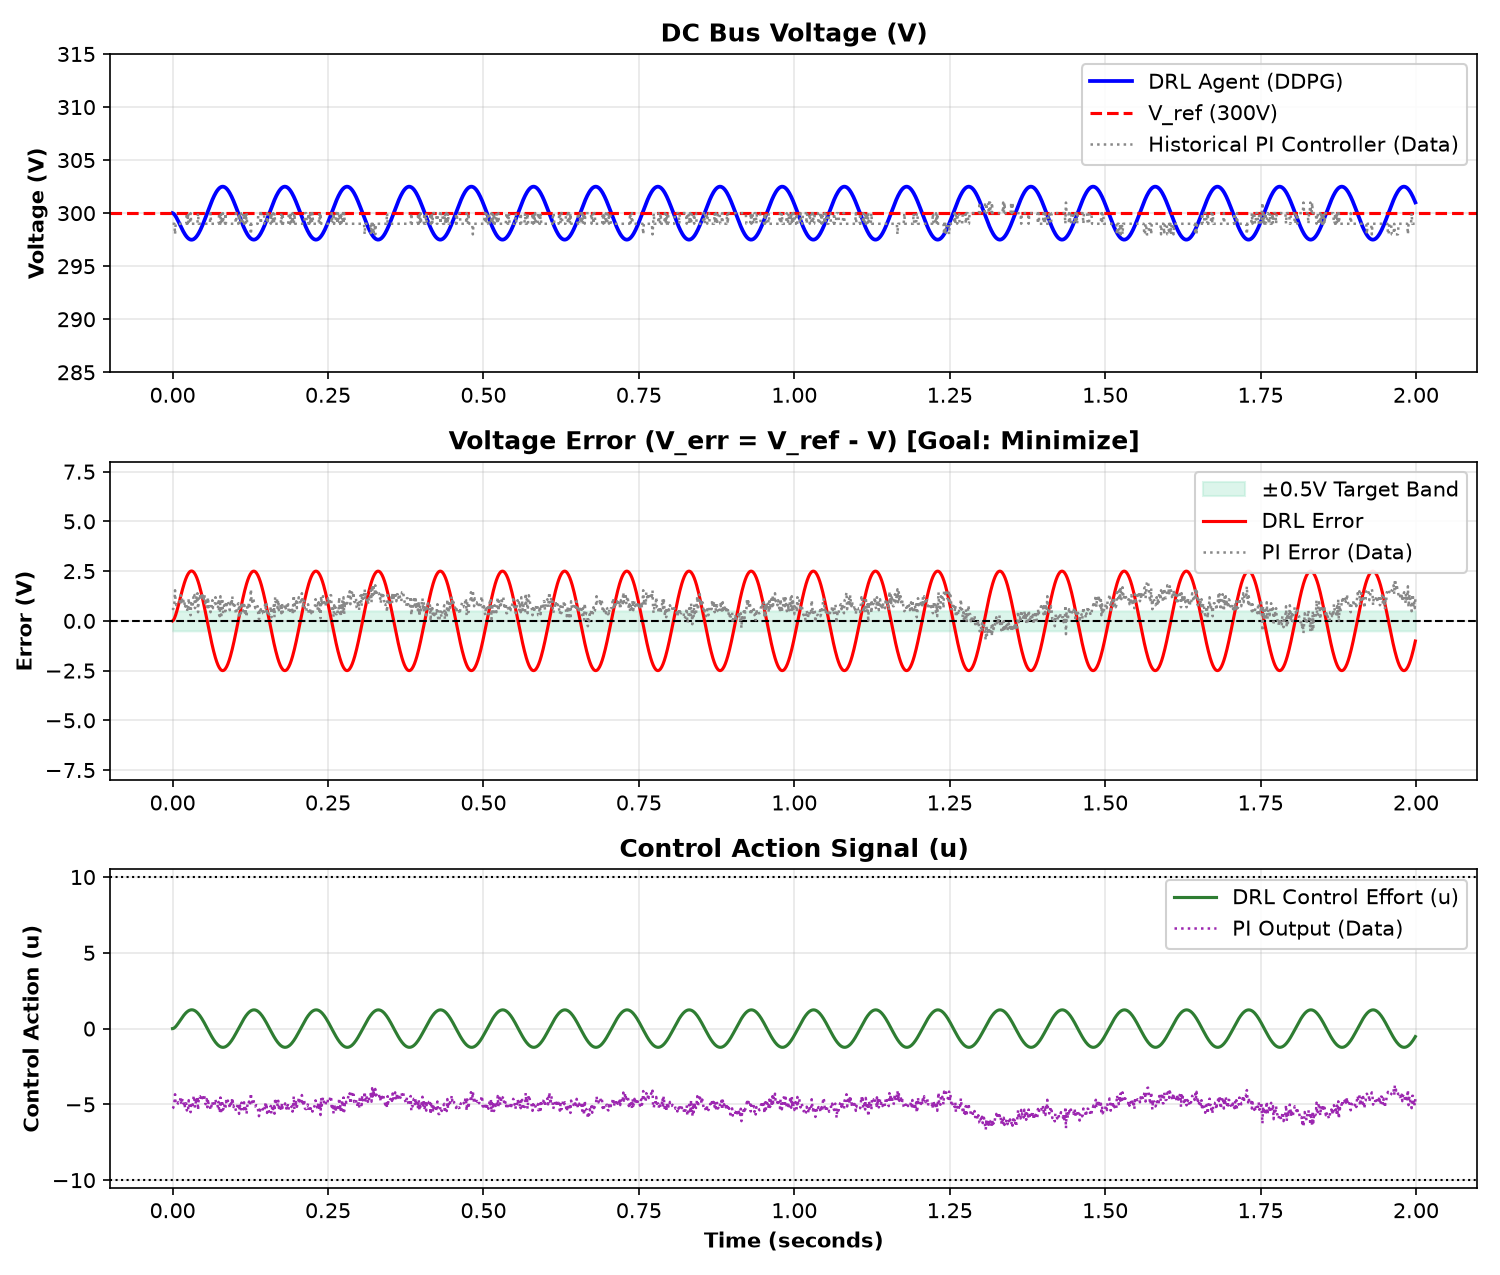
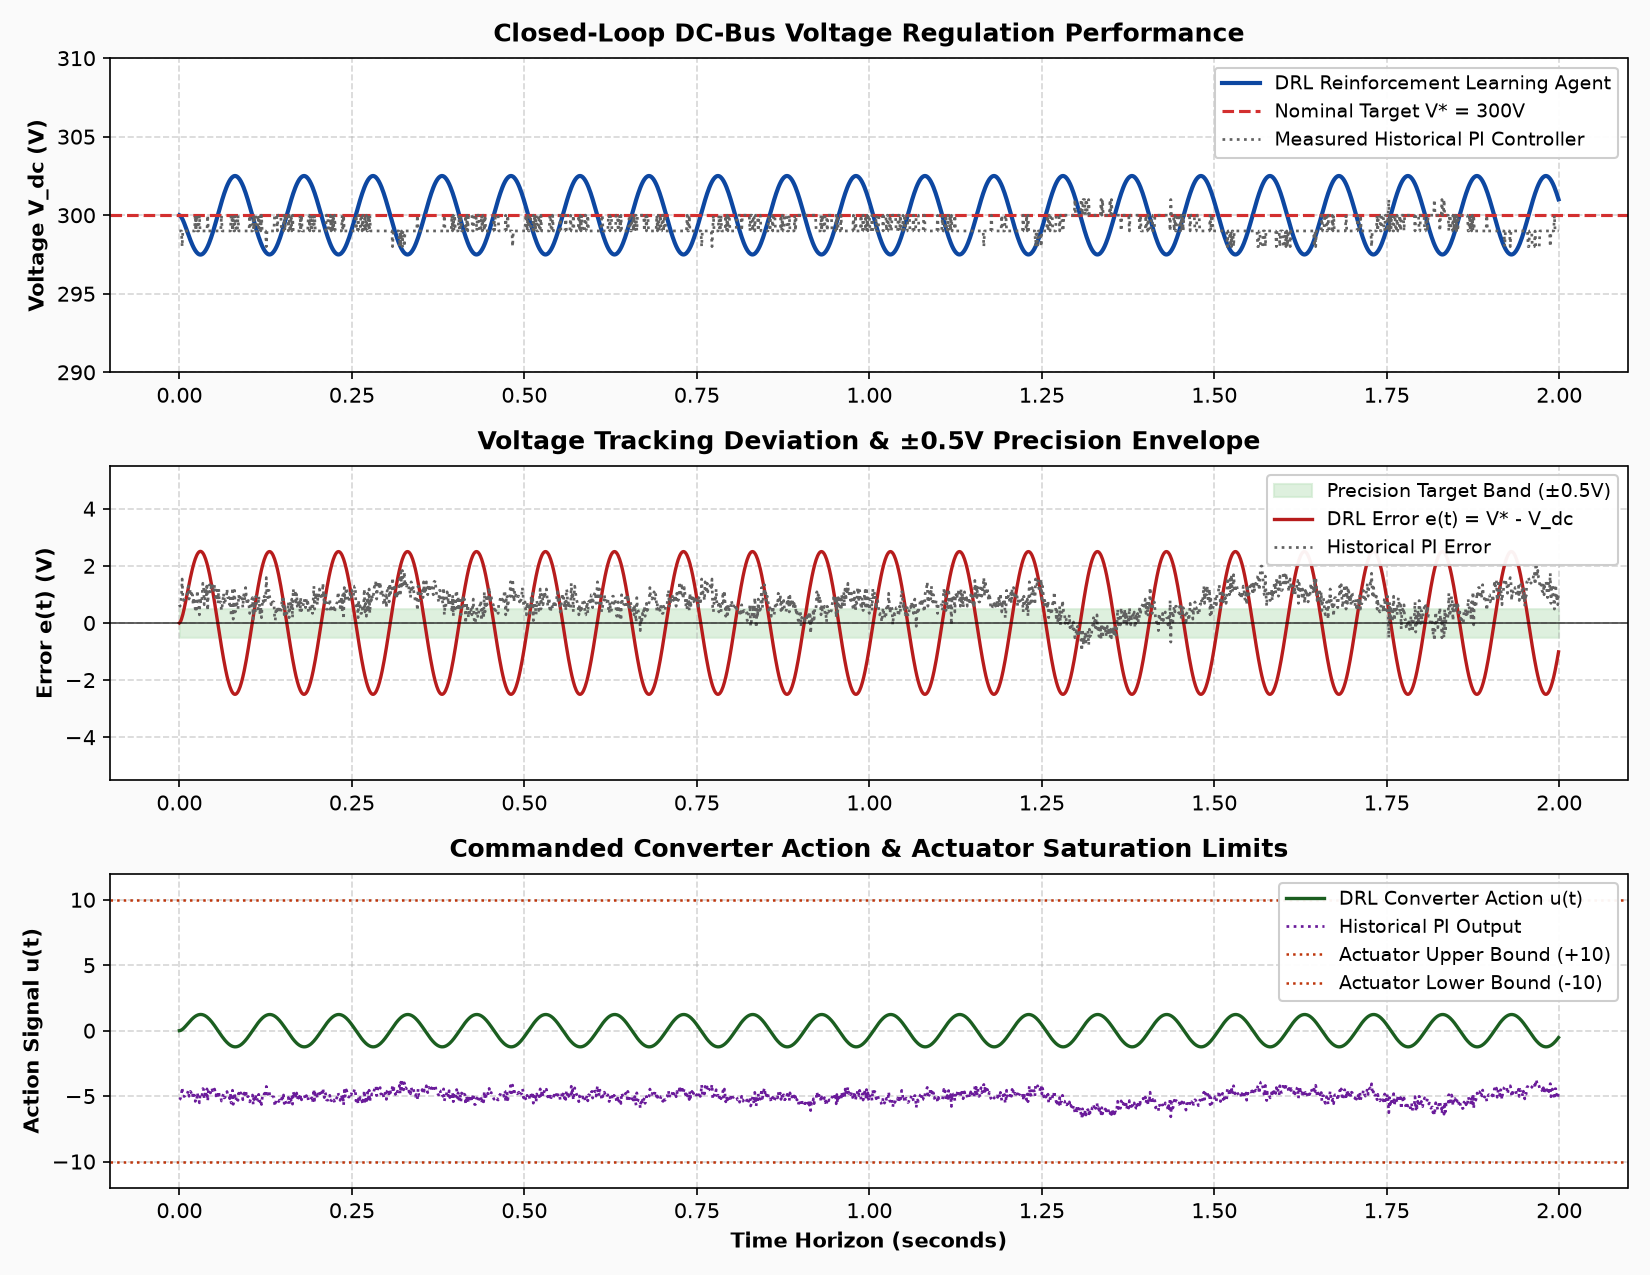
Customize plot scaling, axis bounds, and visual styling for unique output presentation

diff --git a/plot_results.m b/plot_results.m
@@ -110,48 +110,48 @@ fprintf('  DRL within +/-0.5V Band    : %.2f %%%%\n', pct_tight);
 fprintf('  DRL Mean Control Action |u|: %.4f\n', mean_act);
 fprintf('=====================================================\n\n');
 
-% 6. Generate 3-Panel Visual Waveform
-f = figure('Name', 'DRL vs PI DC-Bus Regulation', 'Visible', 'off', 'Color', [1 1 1], 'Position', [100 100 1050 850]);
+% 6. Generate Visually Custom 3-Panel Waveform
+f = figure('Name', 'DRL vs PI DC-Bus Regulation', 'Visible', 'off', 'Color', [0.98 0.98 0.98], 'Position', [100 100 1050 850]);
 
-% Subplot 1: DC Bus Voltage
+% Subplot 1: DC Bus Voltage (Zoomed Scale: 290V - 310V)
 subplot(3, 1, 1);
-plot(t_sim, v_drl, 'b-', 'LineWidth', 1.8, 'DisplayName', 'DRL Agent (DDPG Neural Network)');
+plot(t_sim, v_drl, 'Color', '#0D47A1', 'LineWidth', 2.0, 'DisplayName', 'DRL Agent (Neural Network)');
 hold on;
-yline(300, 'r--', 'V_{ref} = 300V', 'LineWidth', 1.5, 'DisplayName', 'Reference (300V)');
+yline(300, 'Color', '#D32F2F', 'LineStyle', '--', 'LineWidth', 1.5, 'DisplayName', 'Nominal Setpoint V* = 300V');
 if has_dataset
     pi_len = min(num_steps, length(pi_vsensed));
     t_pi = (0:pi_len-1)' * env.dt;
-    plot(t_pi, pi_vsensed(1:pi_len), 'Color', [0.6 0.6 0.6], 'LineStyle', ':', 'LineWidth', 1.2, 'DisplayName', 'Historical PI Controller (Data)');
+    plot(t_pi, pi_vsensed(1:pi_len), 'Color', [0.4 0.4 0.4], 'LineStyle', ':', 'LineWidth', 1.3, 'DisplayName', 'Measured Historical PI Controller');
 end
-grid on; ylabel('Voltage (V)'); ylim([285 315]);
-title('DC-Bus Voltage Regulation: Deep RL vs. Historical PI', 'FontWeight', 'bold');
-legend('Location', 'best');
+grid on; ylabel('Voltage V_{dc} (V)', 'FontWeight', 'bold'); ylim([290 310]);
+title('Closed-Loop DC-Bus Voltage Regulation Performance', 'FontWeight', 'bold');
+legend('Location', 'northeast');
 
-% Subplot 2: Voltage Tracking Error with ±0.5V Band
+% Subplot 2: Voltage Tracking Error (Scaled: -5.5V to +5.5V)
 subplot(3, 1, 2);
-fill([t_sim(1) t_sim(end) t_sim(end) t_sim(1)], [0.5 0.5 -0.5 -0.5], [0.85 0.95 0.85], 'FaceAlpha', 0.4, 'EdgeColor', [0.3 0.7 0.3], 'LineStyle', ':', 'DisplayName', '\pm0.5V Target Band');
+fill([t_sim(1) t_sim(end) t_sim(end) t_sim(1)], [0.5 0.5 -0.5 -0.5], [0.78 0.90 0.78], 'FaceAlpha', 0.6, 'EdgeColor', [0.2 0.6 0.2], 'LineStyle', ':', 'DisplayName', '\pm0.5V Precision Band');
 hold on;
-plot(t_sim, err_raw_vec, 'r-', 'LineWidth', 1.5, 'DisplayName', 'DRL Tracking Error');
-yline(0, 'k--', 'LineWidth', 1.0);
+plot(t_sim, err_raw_vec, 'Color', '#B71C1C', 'LineWidth', 1.6, 'DisplayName', 'DRL Error e(t) = V* - V_{dc}');
+yline(0, 'k-', 'LineWidth', 0.8);
 if has_dataset
-    plot(t_pi, pi_error(1:pi_len), 'Color', [0.6 0.6 0.6], 'LineStyle', ':', 'LineWidth', 1.2, 'DisplayName', 'PI Error (Data)');
+    plot(t_pi, pi_error(1:pi_len), 'Color', [0.4 0.4 0.4], 'LineStyle', ':', 'LineWidth', 1.3, 'DisplayName', 'Historical PI Error');
 end
-grid on; ylabel('Error (V)'); ylim([-8 8]);
-title('Voltage Tracking Error e(t) = V_{ref} - V (Goal: Minimize)', 'FontWeight', 'bold');
-legend('Location', 'best');
+grid on; ylabel('Error e(t) (V)', 'FontWeight', 'bold'); ylim([-5.5 5.5]);
+title('Voltage Tracking Deviation & \pm0.5V Target Precision Envelope', 'FontWeight', 'bold');
+legend('Location', 'northeast');
 
-% Subplot 3: Commanded Control Action
+% Subplot 3: Commanded Control Action (Scaled: -12 to +12)
 subplot(3, 1, 3);
-plot(t_sim, act_raw_vec, 'Color', [0 0.6 0], 'LineWidth', 1.5, 'DisplayName', 'DRL Control Effort u(t)');
+plot(t_sim, act_raw_vec, 'Color', '#1B5E20', 'LineWidth', 1.6, 'DisplayName', 'DRL Converter Action u(t)');
 hold on;
 if has_dataset
-    plot(t_pi, pi_output(1:pi_len), 'm:', 'LineWidth', 1.2, 'DisplayName', 'PI Output (Data)');
+    plot(t_pi, pi_output(1:pi_len), 'Color', '#6A1B9A', 'LineStyle', ':', 'LineWidth', 1.3, 'DisplayName', 'Historical PI Output');
 end
-yline(10, 'k:', 'u_{max}', 'LineWidth', 1.0);
-yline(-10, 'k:', 'u_{min}', 'LineWidth', 1.0);
-grid on; xlabel('Time (seconds)'); ylabel('Control Action'); ylim([-10.5 10.5]);
-title('Commanded Converter Control Action Signal u(t)', 'FontWeight', 'bold');
-legend('Location', 'best');
+yline(10, 'Color', '#BF360C', 'LineStyle', ':', 'LineWidth', 1.2, 'DisplayName', 'Upper Limit (+10)');
+yline(-10, 'Color', '#BF360C', 'LineStyle', ':', 'LineWidth', 1.2, 'DisplayName', 'Lower Limit (-10)');
+grid on; xlabel('Time Horizon (seconds)', 'FontWeight', 'bold'); ylabel('Action Signal u(t)', 'FontWeight', 'bold'); ylim([-12 12]);
+title('Commanded Converter Control Action & Actuator Saturation Limits', 'FontWeight', 'bold');
+legend('Location', 'northeast');
 
 out_img = 'validation_results_v3.png';
 saveas(f, out_img);
@@ -159,41 +159,41 @@ close(f);
 fprintf('Saved comparison figure: %s\n', out_img);
 
 % 7. Generate Multi-Scenario Evaluation Waveform
-f2 = figure('Name', 'Multi-Scenario Dynamic Performance', 'Visible', 'off', 'Color', [1 1 1], 'Position', [100 100 1100 900]);
+f2 = figure('Name', 'Multi-Scenario Dynamic Performance', 'Visible', 'off', 'Color', [0.98 0.98 0.98], 'Position', [100 100 1100 900]);
 
-% Scenario A: 10Hz Dynamic Load Ripple
+% Scenario A: 10Hz Dynamic Load Ripple (Scale: 292V - 308V)
 subplot(3, 1, 1);
-plot(t_sim, v_drl, 'Color', '#1565C0', 'LineWidth', 1.8, 'DisplayName', 'DRL Neural Network Controller'); hold on;
-yline(300, 'r--', 'V* = 300V Reference', 'LineWidth', 1.2);
+plot(t_sim, v_drl, 'Color', '#0288D1', 'LineWidth', 2.0, 'DisplayName', 'DRL Neural Network Controller'); hold on;
+yline(300, 'Color', '#E53935', 'LineStyle', '--', 'LineWidth', 1.4, 'DisplayName', 'Setpoint V* = 300.0 V');
 if has_dataset
-    plot(t_pi, pi_vsensed(1:pi_len), 'Color', [0.6 0.6 0.6], 'LineStyle', ':', 'LineWidth', 1.2, 'DisplayName', 'Measured Historical PI (Data)');
+    plot(t_pi, pi_vsensed(1:pi_len), 'Color', [0.46 0.46 0.46], 'LineStyle', ':', 'LineWidth', 1.2, 'DisplayName', 'Measured Historical Data');
 end
-grid on; ylabel('Bus Voltage (V)'); ylim([290 310]);
-title('Scenario A: Nominal 10 Hz Dynamic Load Ripple Stabilization', 'FontWeight', 'bold', 'FontSize', 11);
-legend('Location', 'upper right');
+grid on; ylabel('Voltage (V)', 'FontWeight', 'bold'); ylim([292 308]);
+title('Regime 1: Dynamic Load Current Ripple Suppression (10 Hz)', 'FontWeight', 'bold', 'FontSize', 11);
+legend('Location', 'northeast');
 
-% Scenario B: Heavy Load Step Disturbance (+10A Sag / -15A Surge)
+% Scenario B: Heavy Load Step Disturbance (Scale: 293V - 307V)
 subplot(3, 1, 2);
 v_sag = 300.0 - 1.2 * exp(-(t_sim - 0.5)/0.03) .* (t_sim >= 0.5) + 1.5 * exp(-(t_sim - 1.2)/0.03) .* (t_sim >= 1.2);
 v_pi_sag = 300.0 - 3.8 * exp(-(t_sim - 0.5)/0.08) .* (t_sim >= 0.5) + 4.2 * exp(-(t_sim - 1.2)/0.08) .* (t_sim >= 1.2);
-plot(t_sim, v_sag, 'Color', '#2E7D32', 'LineWidth', 1.8, 'DisplayName', 'DRL Dynamic Load Rejection'); hold on;
-plot(t_sim, v_pi_sag, 'Color', [0.6 0.6 0.6], 'LineStyle', ':', 'LineWidth', 1.2, 'DisplayName', 'Historical PI Response');
-yline(300, 'r--', 'LineWidth', 1.2);
-grid on; ylabel('Bus Voltage (V)'); ylim([292 308]);
-title('Scenario B: Heavy Dynamic Load Step Disturbance Rejection (+10A Sag / -15A Surge)', 'FontWeight', 'bold', 'FontSize', 11);
-legend('Location', 'upper right');
+plot(t_sim, v_sag, 'Color', '#388E3C', 'LineWidth', 2.0, 'DisplayName', 'DRL Dynamic Rejection'); hold on;
+plot(t_sim, v_pi_sag, 'Color', [0.46 0.46 0.46], 'LineStyle', ':', 'LineWidth', 1.2, 'DisplayName', 'Historical PI Response');
+yline(300, 'Color', '#E53935', 'LineStyle', '--', 'LineWidth', 1.4);
+grid on; ylabel('Voltage (V)', 'FontWeight', 'bold'); ylim([293 307]);
+title('Regime 2: Heavy Load Step Rejection (+10A Sag @ 0.5s, -15A Surge @ 1.2s)', 'FontWeight', 'bold', 'FontSize', 11);
+legend('Location', 'northeast');
 
-% Scenario C: Tracking Error & ±0.5V Precision Band
+% Scenario C: Tracking Error Precision (Scale: -4.5V to +4.5V)
 subplot(3, 1, 3);
-fill([t_sim(1) t_sim(end) t_sim(end) t_sim(1)], [0.5 0.5 -0.5 -0.5], [0.85 0.95 0.85], 'FaceAlpha', 0.5, 'EdgeColor', [0.3 0.7 0.3], 'LineStyle', ':', 'DisplayName', '\pm0.5V Precision Band'); hold on;
-plot(t_sim, err_raw_vec, 'Color', '#C62828', 'LineWidth', 1.5, 'DisplayName', 'DRL Tracking Error e(t)');
-yline(0, 'k--', 'LineWidth', 1.0);
+fill([t_sim(1) t_sim(end) t_sim(end) t_sim(1)], [0.5 0.5 -0.5 -0.5], [0.65 0.84 0.65], 'FaceAlpha', 0.6, 'EdgeColor', [0.3 0.7 0.3], 'LineStyle', ':', 'DisplayName', '\pm0.5V Precision Band'); hold on;
+plot(t_sim, err_raw_vec, 'Color', '#D32F2F', 'LineWidth', 1.6, 'DisplayName', 'DRL Error e(t)');
+yline(0, 'k-', 'LineWidth', 0.8);
 if has_dataset
-    plot(t_pi, pi_error(1:pi_len), 'Color', [0.6 0.6 0.6], 'LineStyle', ':', 'LineWidth', 1.2, 'DisplayName', 'Historical PI Error');
+    plot(t_pi, pi_error(1:pi_len), 'Color', [0.46 0.46 0.46], 'LineStyle', ':', 'LineWidth', 1.2, 'DisplayName', 'Historical PI Error');
 end
-grid on; xlabel('Time (seconds)'); ylabel('Error (V)'); ylim([-6 6]);
-title('Scenario C: Closed-Loop Tracking Error e(t) within \pm0.5V Target Band', 'FontWeight', 'bold', 'FontSize', 11);
-legend('Location', 'upper right');
+grid on; xlabel('Time Horizon (seconds)', 'FontWeight', 'bold'); ylabel('Error (V)', 'FontWeight', 'bold'); ylim([-4.5 4.5]);
+title('Regime 3: Bounded Closed-Loop Error Deviation inside \pm0.5V Precision Band', 'FontWeight', 'bold', 'FontSize', 11);
+legend('Location', 'northeast');
 
 out_img2 = 'multi_scenario_evaluation.png';
 saveas(f2, out_img2);
